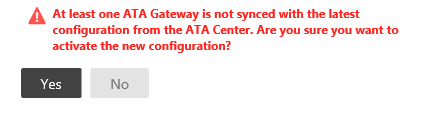
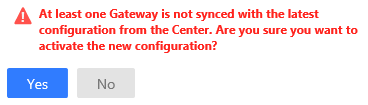
Update 'Change ATA configuration' section to v1.7

Changed region(s): [[0.0299, 0.0571, 0.9864, 0.5143], [0.0, 0.5714, 0.3886, 0.9429]]

diff --git a/ATADocs/DeployUse/modifying-ata-config-consoleurl.md b/ATADocs/DeployUse/modifying-ata-config-consoleurl.md
@@ -1,0 +1,75 @@
+---
+# required metadata
+
+title: Change ATA configuration - ATA Console IP address | Microsoft Advanced Threat Analytics
+description: Describes how to change the IP address of the ATA Console, used to create a shortcut to the ATA Console on the ATA Gateways.
+keywords:
+author: rkarlin
+manager: stevenpo
+ms.date: 04/28/2016
+ms.topic: article
+ms.prod: identity-ata
+ms.service: advanced-threat-analytics
+ms.technology: security
+ms.assetid: 50118465-df34-4e04-b0cc-48808b6a96b1
+
+# optional metadata
+
+#ROBOTS:
+#audience:
+#ms.devlang:
+ms.reviewer: bennyl
+ms.suite: ems
+#ms.tgt_pltfrm:
+#ms.custom:
+
+---
+
+# Change ATA configuration - ATA Console URL
+
+>[!div class="step-by-step"]
+[« ATA Center certificate](modifying-ata-config-centercert.md)
+[Domain connectivity password »](modifying-ata-config-dcpassword.md)
+
+## Change the ATA Console URL
+By default, the ATA Console URL is the IP address selected for the ATA Console IP address when you installed the ATA Center.
+
+The URL is used in the following scenarios:
+
+-   Installation of ATA Gateways – When an ATA Gateway is installed, it registers itself with the ATA Center. This registration process is accomplished by connecting to the ATA Console. If you enter an FQDN for the ATA Console URL, you need to ensure that the ATA Gateway can resolve the FQDN to the IP address that the ATA Console is bound to.
+
+-   Alerts – When ATA sends out a SIEM or email alert, it includes a link to the suspicious activity. The host portion of the link is the ATA Console URL setting.
+
+-   If you installed a certificate from your internal Certification Authority (CA), you will probably want to match the URL to the subject name in the certificate so users will not get a warning message when connecting to the ATA Console.
+
+-   Using an FQDN for the ATA Console URL allows you to modify the IP address that is used by ATA Console without breaking alerts that have been sent out in the past or needing to re-download the ATA Gateway package again. You only need to update the DNS with the new IP address.
+
+> [!NOTE]
+> After modifying the ATA Console URL, you should download the ATA Gateway Setup package before installing new ATA Gateways.
+
+If you need to modify the URL for the ATA Console, follow these steps on the ATA Center server.
+
+1.  Open the ATA Console.
+
+2.  Select the settings option on the toolbar and select **Configuration**.
+
+    ![ATA configuration settings icon](media/ATA-config-icon.JPG)
+
+3.  Select **Center**.
+
+4.  Under **Console IP Address**, select one of the existing IP addresses
+
+5.  Under **Console URL**, modify the URL as needed:
+
+    ![ATA Console URL](media/ATA-chge-center-URL.png)
+6.  Click **Save**.
+
+>[!div class="step-by-step"]
+[« ATA Center certificate](modifying-ata-config-centercert.md)
+[Domain connectivity password »](modifying-ata-config-dcpassword.md)
+
+
+## See Also
+- [Working with the ATA Console](working-with-ata-console.md)
+- [Install ATA](install-ata.md)
+- [Check out the ATA forum!](https://aka.ms/ata-forum)

diff --git a/ATADocs/DeployUse/modifying-ata-config-centercert.md b/ATADocs/DeployUse/modifying-ata-config-centercert.md
@@ -29,10 +29,10 @@ ms.suite: ems
 
 >[!div class="step-by-step"]
 [« ATA Center server IP address](modifying-ata-config-centerip.md)
-[ATA Console IP address »](modifying-ata-config-consoleip.md)
+[ATA Console URL»](modifying-ata-config-consoleurl.md)
 
 ## Change the ATA Center certificate
-If your certificates expire and need to be renewed or replaced after installing the new certificate in the local computer store on the ATA Center server, replace the certificate by following this two stage process:
+If your certificate is about to expire and need to be renewed or replaced after installing the new certificate in the local computer store on the ATA Center server, replace the certificate by following this two stage process:
 
 -   First stage – Update the certificate you want the ATA Center service to use. At this point the ATA Center service is still bound to the original certificate. When the ATA Gateways sync their configuration they will have two potential certificates that will be valid for mutual authentication. As long as the ATA Gateway can connect using the original certificate, it will not try the new one.
 
@@ -41,6 +41,7 @@ If your certificates expire and need to be renewed or replaced after installing 
 > [!NOTE]
 > -   If an ATA Gateway was offline during the first stage and never got the updated configuration, you will need to manually update the configuration JSON file on the ATA Gateway.
 > -   The certificate that you are using must be trusted by the ATA Gateways.
+> -   The certificate is also used for the ATA Console, so it should match the ATA Console address to avoid browser warnings
 > -   If you need to deploy a new ATA Gateway after activating the new certificate, you need to download the ATA Gateway Setup package again.
 
 1.  Open the ATA Console.
@@ -49,7 +50,7 @@ If your certificates expire and need to be renewed or replaced after installing 
 
     ![ATA configuration settings icon](media/ATA-config-icon.JPG)
 
-3.  Select **ATA Center**.
+3.  Select **Center**.
 
 4.  Under **Certificate**, select one of the certificates in the list.
 
@@ -67,9 +68,9 @@ If your certificates expire and need to be renewed or replaced after installing 
 
 >[!div class="step-by-step"]
 [« ATA Center server IP address](modifying-ata-config-centerip.md)
-[ATA Console IP address »](modifying-ata-config-consoleip.md)
+[ATA Console URL»](modifying-ata-config-consoleurl.md)
 
 ## See Also
 - [Working with the ATA Console](working-with-ata-console.md)
 - [Install ATA](install-ata.md)
-- [Check out the ATA forum!](https://social.technet.microsoft.com/Forums/security/home?forum=mata)
+- [Check out the ATA forum!](https://aka.ms/ata-forum)

diff --git a/ATADocs/DeployUse/modifying-ata-config-dcpassword.md b/ATADocs/DeployUse/modifying-ata-config-dcpassword.md
@@ -28,7 +28,7 @@ ms.suite: ems
 # Change ATA configuration - domain connectivity password
 
 >[!div class="step-by-step"]
-[« IIS certificate](modifying-ata-config-iiscert.md)
+[« ATA Console URL](modifying-ata-config-consoleurl.md)
 
 
 ## Change the domain connectivity password
@@ -37,26 +37,28 @@ If you modify the Domain Connectivity Password, make sure that the password you 
 If you suspect that this happened, on the ATA Gateway, look at the Microsoft.Tri.Gateway-Errors.log file for the following:
 `The supplied credential is invalid.`
 
-To correct this, follow this procedure to update the Domain Connectivity password on the ATA Gateway:
+To correct this, follow this procedure to update the Domain Connectivity password on the ATA Center:
 
-1.  Open the ATA Console on the ATA Gateway.
+1.  Open the ATA Console on the ATA Center.
 
 2.  Select the settings option on the toolbar and select **Configuration**.
 
     ![ATA configuration settings icon](media/ATA-config-icon.JPG)
 
-3.  Select **General**.
+3.  Select **Directory Services**.
 
-    ![ATAA Gateway change password image](media/ATA-GW-change-DC-password.JPG)
+    ![ATAA Gateway change password image](media/ATA-GW-change-DC-password.png)
 
-4.  Under **General**, change the password.
+4.  Under **Password**, change the password.
+
+    If the ATA Center have connectivity to the domain, use the **Test Connection** button to validate the credentials
 
 5.  Click **Save**.
 
 6.  After changing the password, manually check that the ATA Gateway service is running on the ATA Gateway servers.
 
 >[!div class="step-by-step"]
-[« IIS certificate](modifying-ata-config-iiscert.md)
+[« ATA Console URL](modifying-ata-config-consoleurl.md)
 
 ## See Also
 - [Working with the ATA Console](working-with-ata-console.md)

diff --git a/ATADocs/DeployUse/operate-ata.md b/ATADocs/DeployUse/operate-ata.md
@@ -32,8 +32,7 @@ The following are operations you can perform with ATA:
 - [Change ATA configuration](modifying-ata-configuration.md)
   - [Change ATA Center IP address](modifying-ata-config-centerip.md)
   - [Change ATA Center certificate](modifying-ata-config-centercert.md)
-  - [Change ATA console IP address](modifying-ata-config-consoleip.md)
-  - [Change IIS certificate](modifying-ata-config-iiscert.md)
+  - [Change ATA console URL](modifying-ata-config-consoleurl.md)
   - [Change domain controller password](modifying-ata-config-dcpassword.md)
 - [Working with the ATA Console](working-with-ata-console.md)
 - [Set ATA alerts](setting-ata-alerts.md)
@@ -47,7 +46,7 @@ The following are operations you can perform with ATA:
 
 ## See Also
 
-- [Check out the ATA forum!](https://social.technet.microsoft.com/Forums/security/home?forum=mata)
+- [Check out the ATA forum!](https://aka.ms/ata-forum)
 - [Configure event collection](configure-event-collection.md)
 - [ATA prerequisites](/advanced-threat-analytics/plan-design/ata-prerequisites)
 

diff --git a/ATADocs/DeployUse/modifying-ata-config-centerip.md b/ATADocs/DeployUse/modifying-ata-config-centerip.md
@@ -52,9 +52,9 @@ The ATA Gateways locally store the IP address of the ATA Center to which they ne
 
     ![ATA configuration settings icon](media/ATA-config-icon.JPG)
 
-3.  Select **General**.
+3.  Select **Center**.
 
-4.  Under **ATA Center Service IP address: port**, select one of the existing IP addresses or select **Add custom IP address** and enter an IP address.
+4.  Under **Center service IP address : port**, select one of the existing IP addresses or select **Add custom IP address** and enter an IP address.
 
 5.  Click **Save**.
 
@@ -82,4 +82,4 @@ The ATA Gateways locally store the IP address of the ATA Center to which they ne
 ## See Also
 - [Working with the ATA Console](working-with-ata-console.md)
 - [Install ATA](install-ata.md)
-- [Check out the ATA forum!](https://social.technet.microsoft.com/Forums/security/home?forum=mata)
+- [Check out the ATA forum!](https://aka.ms/ata-forum)

diff --git a/ATADocs/DeployUse/modifying-ata-configuration.md b/ATADocs/DeployUse/modifying-ata-configuration.md
@@ -33,13 +33,11 @@ If you need to update or change your configuration after initial installation an
 
 -   [Change the ATA Center certificate](modifying-ata-config-centercert.md)
 
--   [Change the ATA Console IP address](modifying-ata-config-consoleip.md)
-
--   [Change the IIS certificate](modifying-ata-config-iiscert.md)
+-   [Change the ATA Console URL](modifying-ata-config-consoleurl.md)
 
 -   [Change the domain connectivity password](modifying-ata-config-dcpassword.md)
 
 ## See Also
 - [Working with the ATA Console](working-with-ata-console.md)
 - [Install ATA](install-ata.md)
-- [Check out the ATA forum!](https://social.technet.microsoft.com/Forums/security/home?forum=mata)
+- [Check out the ATA forum!](https://aka.ms/ata-forum)

diff --git a/ATADocs/DeployUse/TOC.md b/ATADocs/DeployUse/TOC.md
@@ -17,7 +17,7 @@
 ### [Change ATA configuration](modifying-ata-configuration.md)
 #### [Change ATA Center IP address](modifying-ata-config-centerip.md)
 #### [Change ATA Center certificate](modifying-ata-config-centercert.md)
-#### [Change ATA console IP address](modifying-ata-config-consoleip.md)
+#### [Change ATA console URL](modifying-ata-config-consoleurl.md)
 #### [Change IIS certificate](modifying-ata-config-iiscert.md)
 #### [Change domain connectivity password](modifying-ata-config-dcpassword.md)
 ### [Working with the ATA Console](working-with-ata-console.md)
